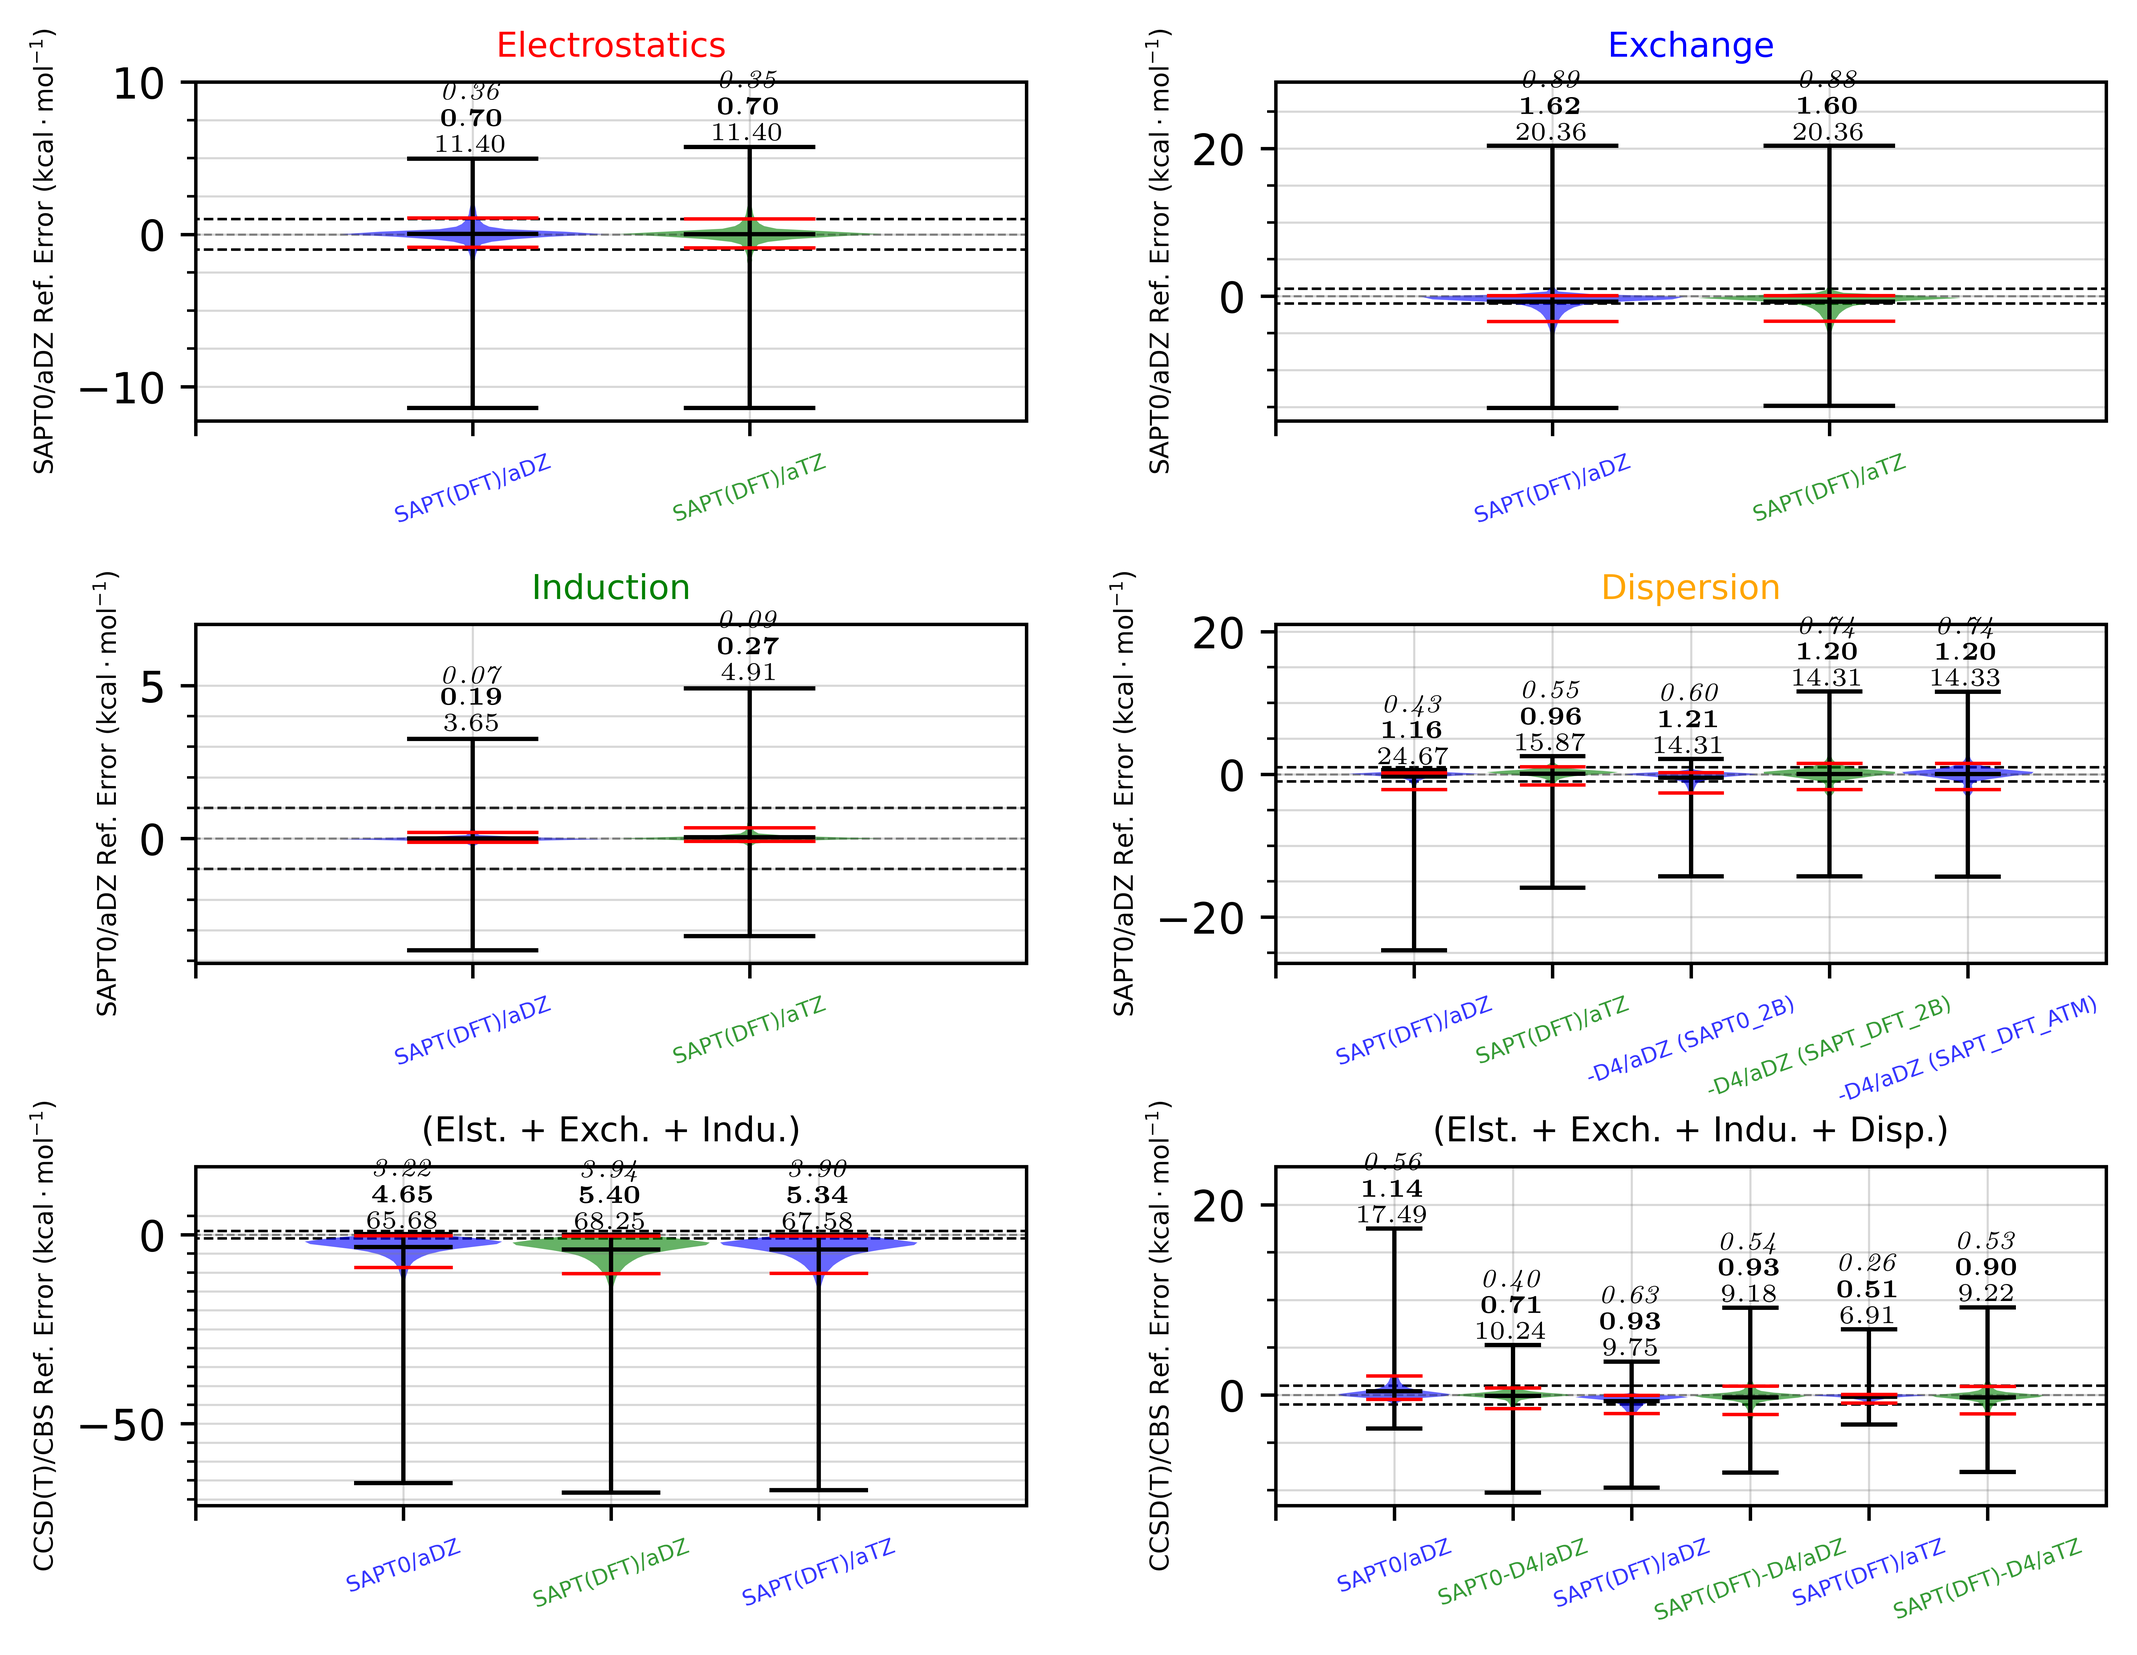
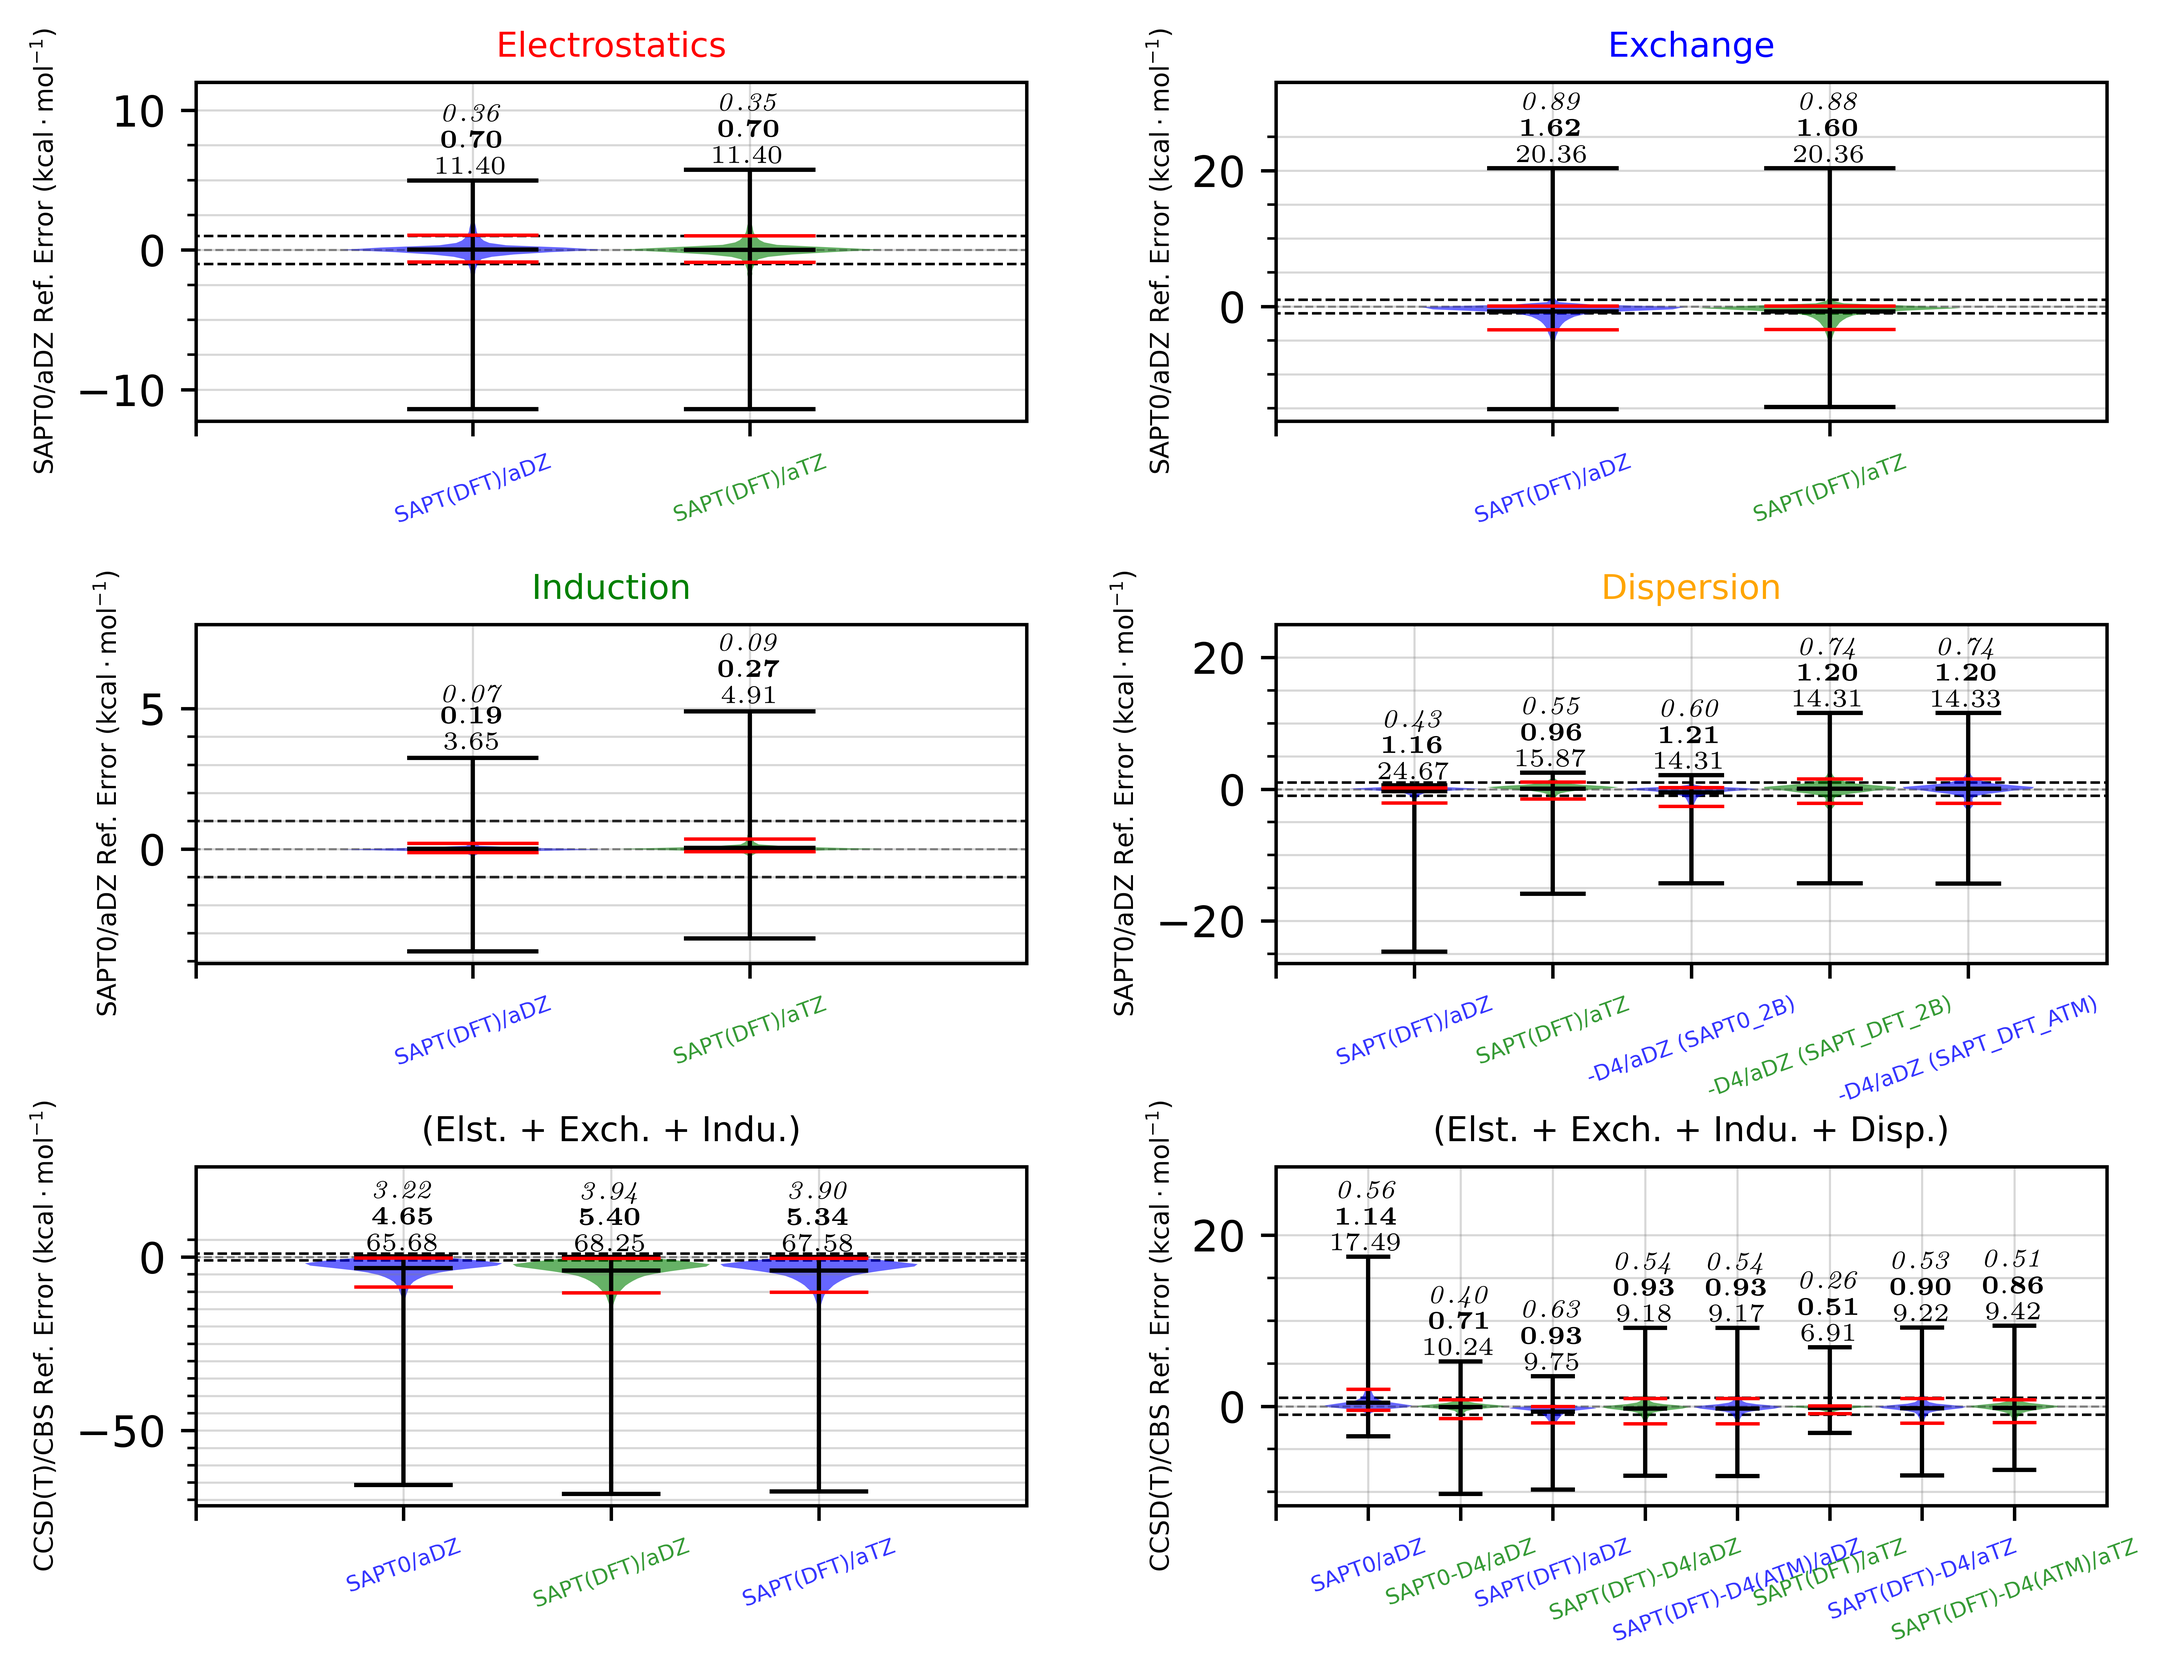
plots

diff --git a/src/plotting.py b/src/plotting.py
@@ -884,6 +884,12 @@ def plotting_setup_dft(
                         "SAPT_DFT_atz_3_IE",
                         "SAPT_DFT_atz_3_IE",
                     ],
+                    [
+                        "SAPT_DFT_atz_IE",
+                        "SAPT_DFT_atz_3_IE_ATM",
+                        "SAPT_DFT_atz_3_IE_ATM_LINKED",
+                        "SAPT_DFT_atz_3_IE",
+                    ],
                 ],
             )
         print(df.columns.values)
@@ -920,6 +926,9 @@ def plotting_setup_dft(
         df['SAPT_DFT_adz_3_IE_d4'] = df.apply(
             lambda x: x['SAPT_DFT_adz_3_IE'] + x['-D4 (SAPT_DFT_adz_3_IE)'], axis=1
         )
+        df['SAPT_DFT_adz_3_IE_d4_ATM'] = df.apply(
+            lambda x: x['SAPT_DFT_adz_3_IE'] + x['-D4 (SAPT_DFT_adz_3_IE_ATM)'], axis=1
+        )
         df["SAPT_DFT_atz_total"] = df.apply(lambda x: x["SAPT_DFT_atz"][0], axis=1)
         df["SAPT_DFT_atz_elst"] = df.apply(
             lambda x: select_element(x["SAPT_DFT_atz"], 1), axis=1
@@ -939,6 +948,9 @@ def plotting_setup_dft(
         )
         df['SAPT_DFT_atz_3_IE_d4'] = df.apply(
             lambda x: x['SAPT_DFT_atz_3_IE'] + x['-D4 (SAPT_DFT_atz_3_IE)'], axis=1
+        )
+        df['SAPT_DFT_atz_3_IE_d4_ATM'] = df.apply(
+            lambda x: x['SAPT_DFT_atz_3_IE'] + x['-D4 (SAPT_DFT_atz_3_IE_ATM)'], axis=1
         )
         df.to_pickle(df_out)
     else:
@@ -1287,7 +1299,7 @@ def plot_component_violin(
     ylim = ax.get_ylim()
     minor_yticks = create_minor_y_ticks(ylim)
     ax.set_yticks(minor_yticks, minor=True)
-    ax.set_ylim((ylim[0], int(ylim[1] + abs(ylim[1] - ylim[0]) * 0.2)))
+    ax.set_ylim((ylim[0], int(ylim[1] + abs(ylim[1] - ylim[0]) * 0.3)))
     vLabels.insert(0, "")
     xs = [i for i in range(len(vLabels))]
     xs_error = [i for i in range(-1, len(vLabels) + 1)]
@@ -1422,8 +1434,10 @@ def plot_violin_SAPT0_DFT_components(
             "SAPT0-D4/aDZ": "SAPT0_adz_d4",
             "SAPT(DFT)/aDZ": "SAPT_DFT_adz_total",
             "SAPT(DFT)-D4/aDZ": "SAPT_DFT_adz_3_IE_d4",
+            "SAPT(DFT)-D4(ATM)/aDZ": "SAPT_DFT_adz_3_IE_d4_ATM",
             "SAPT(DFT)/aTZ": "SAPT_DFT_atz_total",
             "SAPT(DFT)-D4/aTZ": "SAPT_DFT_atz_3_IE_d4",
+            "SAPT(DFT)-D4(ATM)/aTZ": "SAPT_DFT_atz_3_IE_d4_ATM",
         },
     },
     pfn: str = "sapt0_dft_components",

diff --git a/src/paramsTable.py b/src/paramsTable.py
@@ -96,7 +96,7 @@ def paramsDict() -> {}:
                 [1.0, 1.19131302, 1.27135607, -1.41172872, 1.0],
             ]
         ),
-        "SAPT_DFT_atz_3_IE_ATM": np.array(
+        "SAPT_DFT_atz_3_IE_ATM_LINKED": np.array(
             [
                 [1.0, 1.58405999, 1.20257999, -0.94509505, 0.0],
                 [1.0, 1.58405999, 1.20257999, -0.94509505, 1.0],
@@ -106,6 +106,12 @@ def paramsDict() -> {}:
             [
                 [1.0, 1.19131302, 1.27135607, -1.41172872, 0.0],
                 [1.0, 1.19131302, 1.27135607, -1.41172872, 0.0],
+            ]
+        ),
+        "SAPT_DFT_atz_3_IE_C6_ONLY": np.array(
+            [
+                [ 1.        ,  0.        ,  0.77164007, -0.25627041,  0.        ],
+                [ 1.        ,  0.        ,  0.77164007, -0.25627041,  0.        ]
             ]
         ),
         "HF_ATM_OPT_START": np.array(
@@ -344,6 +350,8 @@ def generate_2B_ATM_param_subsets(
                 [s6, s8, a1, a2],
                 [s6, s8, a1_ATM, a2_ATM],
         ]
+        OR
+        2 params = [a1, a2]
     """
     s9 = 0.0
     if force_ATM_on:
@@ -399,6 +407,15 @@ def generate_2B_ATM_param_subsets(
     ):
         params_2B = np.array(params[0], dtype=np.float64)
         params_ATM = np.array(params[1], dtype=np.float64)
+    elif len(params) == 2 and (
+            type(params[0]) == float or type(params[0]) == np.float64
+        ):
+        params_2B = np.array(
+            [1.0, 0.0, params[0], params[1], s9], dtype=np.float64
+        )
+        params_ATM = np.array(
+            [1.0, 0.0, params[0], params[1], s9], dtype=np.float64
+        )
     elif len(params) == 2:
         params_2B, params_ATM = get_params(params_2B_key)
         params_ATM[2] = params[0]

diff --git a/main.py b/main.py
@@ -115,16 +115,13 @@ def optimize_paramaters(
             print("D4 powell")
             if ATM:
                 print("ATM ON")
-                # compute_energy = "compute_int_energy_DISP"
-                # extra_added += "ATM_"
-                raise ValueError("ATM not supported for C6 only")
+                extra_added += "2B_C6_ATM_"
             else:
                 print("ATM OFF")
-                compute_energy = "compute_int_energy_DISP_C6_only"
                 extra_added += "2B_C6"
             version = {
                 "method": "powell",
-                "compute_energy": compute_energy,
+                "compute_energy": "compute_int_energy_DISP_C6_only",
                 "compute_stats": "compute_int_energy_stats_DISP_C6_only",
             }
 
@@ -256,7 +253,7 @@ def main():
             # start_params_d4_key="HF_ATM_TT_OPT_START",
             D3={"powell": False},
             # D4={"powell": False, "least_squares": False, "powell_ATM_TT": True},
-            ATM=False,
+            ATM=True,
             extra="",
             # extra="SAPT_DFT_",
             use_2B_C6s=False,

diff --git a/src/optimization.py b/src/optimization.py
@@ -419,6 +419,8 @@ def compute_int_energy_DISP_C6_only(
     """
     compute_int_energy_DISP_C6_only is used to optimize paramaters for damping function in dftd4
     """
+    # params_2B, params_ATM = paramsTable.get_params("HF_ATM_SHARED")
+    # params_ATM = np.array([0.0, 0.0, params[0], params[1], 1.0])
     params_2B, params_ATM = paramsTable.generate_2B_ATM_param_subsets(
         params, force_ATM_on=force_ATM_on
     )
